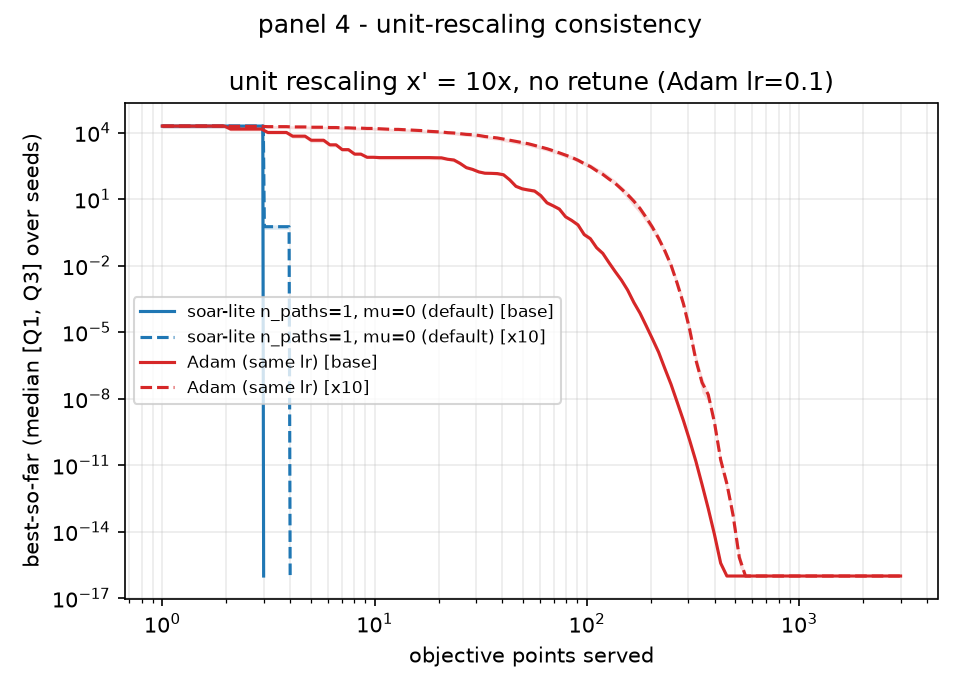
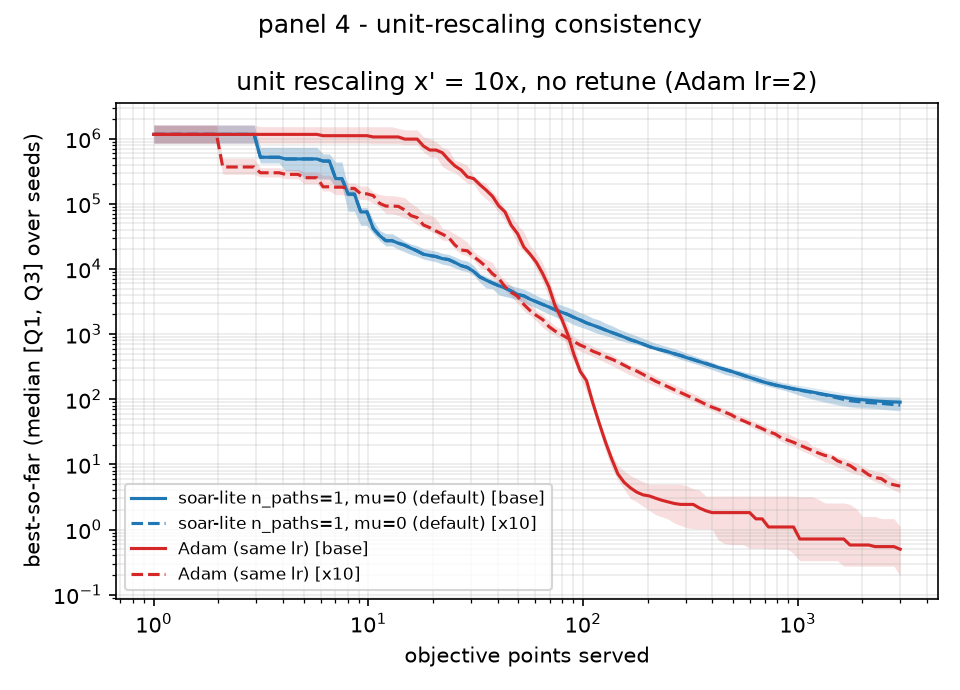
experiments: the invariance panel gets a problem you can see it on
On the diagonal quadratic the panel could not argue its own claim: base
reaches the floor in three points and the rescaled system in four, so the
only visible transient is where the two systems differ (27 orders at point
three) and they meet only at the floor. The cause is the warm-up pair being
asymmetric between unit systems, not a property worth plotting.

The rotated quadratic descends across the whole budget and its warm-up step
is worse than the start in both systems (0/40 traces improved on it), so
what the figure draws is steady-state covariance alone. Measured, 20 seeds x
3000, base vs x' = 10x: soar-lite's two curves differ by 0.044 decades at
most over the run, Adam's by 1.863 with one lr in both systems.

The panel now prints that gap, since RESULTS.md could only say its claims
were a reading of a run nothing could re-derive.

diff --git a/experiments/harness/appendix.py b/experiments/harness/appendix.py
@@ -16,7 +16,7 @@ import numpy as np
 from experiments.harness import problems, tuning
 from experiments.harness.arms import DEFAULT_MU, soar_arm
 from experiments.harness.figures import plot_cohort
-from experiments.harness.methods import run_adam
+from experiments.harness.methods import Trace, run_adam
 from experiments.harness.panels import LABEL_SERIAL, STYLE_SERIAL, every_problem
 from experiments.harness.record import HERE, Roots
 
@@ -117,10 +117,23 @@ def run_lr_sweep(roots: Roots, n_seeds: int, max_batches: int) -> None:
 def run_invariance(roots: Roots, n_seeds: int, max_batches: int) -> None:
     """Draw panel 4: one physics in two unit systems, zero retune.
 
-    soar-lite's per-coordinate secant should overlap (outcome-level), Adam's
-    single lr should separate because the effective lr rescales with the unit.
+    The rotated quadratic is the control: descent continues across the whole
+    budget, so the plotted range is secant steady state, where rescaling x by
+    c maps d to c²·d and the step to c times the base step exactly. Here
+    soar-lite's two curves coincide, while Adam keeps one lr across both unit
+    systems and its two curves separate.
+
+    It also keeps the warm-up out of the picture. The warm-up step is by design
+    not unit-invariant, but on a rotated ill-conditioned landscape it overshoots
+    enough to be worse than the start, so best-so-far never records it and the
+    plotted curve is covariance alone. On the axis-aligned diagonal quadratic
+    the warm-up is the opposite case: one unit system sends the soft
+    coordinates to zero while the other leaves them nearly in place, so the two
+    systems reach the floor after a different number of steps, and the only
+    region where their curves differ is the transient. The max gap printed per
+    method is what the figure shows.
     """
-    base = problems.diag_quadratic()
+    base = problems.rotated_quadratic()
     scaled = _rescale(base, INVARIANCE_SCALE)
     lr = tuning.pick("adam", base.name)
     serial = soar_arm(
@@ -138,14 +151,16 @@ def run_invariance(roots: Roots, n_seeds: int, max_batches: int) -> None:
         ),
     ]
     fig, ax = plt.subplots(figsize=(6.4, 4.6))
+    cohorts = {}
     for label, color, runner in methods:
         for prob, ls, tag in ((base, "-", "base"), (scaled, "--", "x10")):
             traces = [
                 runner(prob, max_batches=max_batches, seed=s) for s in range(n_seeds)
             ]
-            # Seeds stop at different point counts (diag converges in tens of
-            # points), so the raw trace arrays are ragged: plot_cohort resamples
-            # them onto one log-spaced grid, exactly as the other panels do.
+            cohorts[label, tag] = traces
+            # plot_cohort resamples onto one log-spaced grid and draws the
+            # cohort median, exactly as the other panels do; the traces are
+            # ragged in general, since a converged path stops early.
             plot_cohort(
                 ax,
                 traces,
@@ -153,6 +168,8 @@ def run_invariance(roots: Roots, n_seeds: int, max_batches: int) -> None:
                 label=f"{label} [{tag}]",
                 style={"color": color, "ls": ls, "lw": 1.5},
             )
+    for label in dict.fromkeys(k[0] for k in cohorts):
+        print(f"{label:24s} {_unit_gap(cohorts[label, 'base'], cohorts[label, 'x10'])}")
     ax.set_xscale("log")
     ax.set_yscale("log")
     ax.set_xlabel("objective points served")
@@ -169,6 +186,26 @@ def run_invariance(roots: Roots, n_seeds: int, max_batches: int) -> None:
     fig.savefig(out, dpi=150)
     plt.close(fig)
     print(f"wrote {out.relative_to(HERE)}")
+
+
+def _unit_gap(base: list[Trace], scaled: list[Trace]) -> str:
+    """Largest log10 gap between the two systems' median curves, as text.
+
+    Both cohorts are truncated to the shortest trace, so the comparison is at
+    the points both systems served rather than at a shared endpoint by
+    interpolation.
+    """
+    n = min(min(len(t.best) for t in traces) for traces in (base, scaled))
+    med = [
+        np.log10(
+            np.maximum(
+                np.median([np.asarray(t.best)[:n] for t in traces], axis=0),
+                1e-300,
+            ),
+        )
+        for traces in (base, scaled)
+    ]
+    return f"max |log10 base - x10| = {np.max(np.abs(med[0] - med[1])):.3f} decades"
 
 
 def _rescale(prob: problems.Problem, scale: float) -> problems.Problem:

diff --git a/experiments/DESIGN.md b/experiments/DESIGN.md
@@ -133,22 +133,37 @@ panel.
 
 Two appendix panels, property demos rather than races:
 
-4. **Invariance — unit-rescaling consistency.** Run on the diag control:
+4. **Invariance — unit-rescaling consistency.** Run on the rotated quadratic:
    re-measure in two unit systems (here `x' = 10x`, see `INVARIANCE_SCALE` in
-   `harness/appendix.py`), **zero retune**. Claim is **outcome-level, not
-   trajectory-level**: the best-so-far-vs-cost curves overlap in both unit
-   systems, while Adam's separate (one system needs a different `α`). Exact
-   per-step covariance (`x̃=c·x ⇒ d̃=c²d, Δx̃=c·Δx`) is real but holds only for
-   the secant-based steady state: the **warmup step is by design not
-   unit-invariant** (a scalar `α` applied uniformly across mixed-unit
-   coords), so the first secant pair — and anything seeded by it — is not the
-   transformed pair. On the diagonal quadratic this
-   self-corrects in one step (`d` reads `1/Hᵢ` exactly, independent of the seed
-   pair's scale), so the diag control gives clean overlap; a general/multimodal
-   problem would **not** guarantee same basin, so never use one for this panel.
+   `harness/appendix.py`), **zero retune**. soar-lite's two best-so-far curves
+   overlap along the whole run; Adam's two separate, because one `lr` cannot be
+   right in both unit systems. Exact per-step covariance (`x̃=c·x ⇒ d̃=c²d,
+   Δx̃=c·Δx`) is real but holds only for the secant-based steady state: the
+   **warmup step is by design not unit-invariant** (a scalar `α` applied
+   uniformly across mixed-unit coordinates), so the first secant pair — and
+   anything seeded by it — is not the transformed pair.
+
+   The rotated quadratic is the control because it keeps that transient out of
+   the plotted curve and still leaves something to plot. Descent continues
+   across the whole budget, so the figure shows the steady state over hundreds
+   of points rather than a single plunge, and the warmup step on an
+   ill-conditioned rotated landscape overshoots enough to be worse than the
+   start, so best-so-far never records it: what is drawn is covariance alone.
+   The axis-aligned diagonal quadratic is the opposite case, and that is why it
+   was retired here: the warmup pair is asymmetric between the two unit systems
+   — the unit-stiffness factor `1 - aᵢ` against its scaled counterpart
+   `1 - aᵢ/c²` zeroes the soft coordinates in one system while leaving them
+   nearly in place in the other, and clips the stiff ones in both — so the two
+   systems reach the floor after a different number of steps. Their curves then
+   differ exactly where the transient is and meet only trivially, both at the
+   floor; clean at the step level, useless as a figure. A general/multimodal
+   problem stays excluded for both reasons: no same-basin guarantee, and no
+   visible steady state to compare.
+
    The exact claim is asserted at the step level (injected secant pair, as in
    `test_diag_step_scales_with_the_coordinate_unit`); the end-to-end claim is
-   asserted statistically. A *property demo*, not a race.
+   asserted statistically, and the panel now prints the drawn gap per method so
+   the assertion is re-derivable from a run. A *property demo*, not a race.
 5. **Adam lr sweep.** Log-scan of `lr` per problem, marking the panel pick
    (`experiments/tuning/adam.json`) — the evidence that soar-lite has no
    learning rate where Adam pays a grid. Emitted by `--lr-sweep`.

diff --git a/experiments/RESULTS.md b/experiments/RESULTS.md
@@ -28,7 +28,40 @@ Two entries (v2 and v3) also record wall clock. That is a property of the
 machine that ran them, not an expectation: no comparison here is made on time,
 and a re-run should reproduce the medians, not the hours.
 
-## 2026-11-11 — figure rule: the median is taken over the whole cohort
+## 2026-11-11 — invariance panel: the rotated quadratic replaces the diag control — CURRENT
+
+20 seeds x 3000 batches, base vs `x' = 10x`, zero retune, one panel re-run at
+`harness/appendix.py` with the control problem changed from the diagonal
+quadratic to the rotated one. The panel now prints the gap it draws: the maximum
+over the run of |log10 base - log10 x10| on the shared-grid cohort median is
+**0.044 decades for soar-lite** (`n_paths=1`, `mu=0`) and **1.863 decades for
+Adam**, which keeps one `lr` across both unit systems. Figure:
+`experiments/figures/invariance/invariance.png`, copied to
+`docs/figures/invariance-units.png`.
+
+**Why the control moved.** On the diagonal quadratic the two unit systems take a
+different number of steps to the floor: the serial arm ends base in 3 points and
+the rescaled system in 4, so at point 3 base reads `5.05e-28` while the rescaled
+system is still at `0.681` — 27 orders apart, in the only region where there is
+anything to see. The cause is the warm-up pair, which is asymmetric between the
+unit systems: the unit-stiffness factor `1 - aᵢ` sends the soft coordinates to
+zero while its scaled counterpart `1 - aᵢ/100` leaves them nearly in place, and
+both clip the stiff ones. The curves then meet only at the floor, which is the
+trivial half of the claim, and the figure argued against its own title.
+
+The rotated quadratic descends across the whole budget and its warm-up step
+overshoots an ill-conditioned rotated landscape enough to be worse than the
+start, so best-so-far never records it (no seed in either unit system improved
+on its start at the warm-up point, 20/20). What the figure draws is therefore
+steady-state covariance alone: soar-lite's two curves hug, Adam's split.
+
+Read against the 2026-10-28 entry's "unit-rescaling residual" section with
+care: that is a real measurement of the *retired* diag control, at the warm-up
+that still carried an Armijo backtrack, and it no longer describes what this
+panel draws. The end-to-end claim is still asserted statistically, and this
+panel writes no trace JSON: the two gaps above are printed by the run, not
+re-derivable from a shipped artifact.
+
 
 No trace was re-measured; every number in this file stands. What changed is how
 far each curve is drawn.

diff --git a/docs/figures/README.md b/docs/figures/README.md
@@ -14,9 +14,9 @@ under that date.
 
 The set moves at once, in the commit that records the run, and only after
 every panel has been looked at. That is what makes the check meaningful: all
-eight files are compared against one record entry. Copied one at a time, each
-file is compared against nothing in particular, and the page slowly stops
-describing the run it names.
+eight files are compared against the record entries for that date. Copied one at
+a time, each file is compared against nothing in particular, and the page slowly
+stops describing the run it names.
 
 | file | panel | axis | budget |
 | --- | --- | --- | --- |
@@ -26,7 +26,7 @@ describing the run it names.
 | `smooth-points.png` | `smooth` | points | 20 seeds x 3000 |
 | `multimodal-batches.png` | `multimodal` — Rastrigin | batches | 20 seeds x 3000 |
 | `multimodal-points.png` | `multimodal` | points | 20 seeds x 3000 |
-| `invariance-units.png` | `invariance` — one physics, two unit systems | — | 20 seeds x 3000 |
+| `invariance-units.png` | `invariance` — rotated quadratic, one physics in two unit systems | — | 20 seeds x 3000 |
 | `lr-sweep.png` | Adam learning-rate grid | — | 2 seeds x 3000 per point |
 
 The sweep is the one panel whose y axis is a **mean**: it is the statistic the
